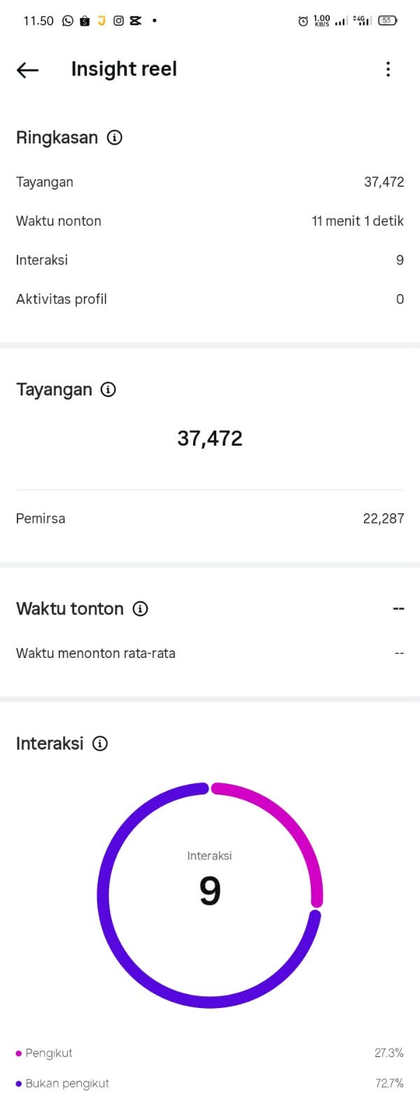
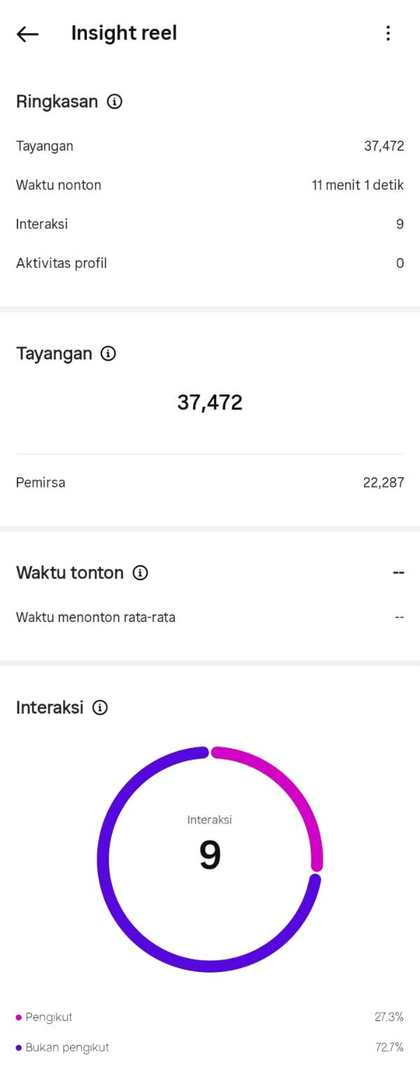
Potong status bar screenshot Insight IG dan tambah keterangan metrik
Claude-Session: https://claude.ai/code/session_01XFxGtJgego4dz8GkBeFxP5

diff --git a/index.html b/index.html
@@ -205,15 +205,23 @@
           <div class="reveal"><dt>Total reach (akun yang dijangkau)</dt><dd>71.771</dd></div>
           <div class="reveal"><dt>Total biaya iklan</dt><dd>Rp 99.919</dd></div>
         </dl>
-        <div class="figures">
-          <figure class="shot reveal">
-            <img src="assets/meta-ads-report.jpg" alt="Meta Ads Manager: performa kampanye, total reach 71.771 dengan biaya Rp99.919" width="1341" height="346" loading="lazy">
-            <figcaption>Meta Ads Manager — Campaign Performance</figcaption>
-          </figure>
+        <figure class="shot reveal">
+          <img src="assets/meta-ads-report.jpg" alt="Meta Ads Manager: performa kampanye, total reach 71.771 dengan biaya Rp99.919" width="1341" height="346" loading="lazy">
+          <figcaption>Meta Ads Manager — Campaign Performance</figcaption>
+        </figure>
+        <div class="insight">
           <figure class="shot tall reveal">
-            <img src="assets/instagram-insights.png" alt="Instagram Insights: performa reels" width="420" height="1120" loading="lazy">
+            <img src="assets/instagram-insights.png" alt="Instagram Insights: performa reels" width="420" height="1084" loading="lazy">
             <figcaption>Instagram Insights — Reels Performance</figcaption>
           </figure>
+          <div class="metrics reveal">
+            <p class="label">Metrik</p>
+            <dl>
+              <div><dt>Hasil Tayangan Reels</dt><dd>37.472</dd></div>
+              <div><dt>Pemirsa</dt><dd>22.287</dd></div>
+              <div><dt>Interaksi</dt><dd>9</dd></div>
+            </dl>
+          </div>
         </div>
         <p class="reveal"><a class="link" href="https://drive.google.com/drive/folders/1rFhIf1uQNMpGtsUMiMmEChXzilDNQje_" target="_blank" rel="noopener">Lihat laporan kampanye ↗</a></p>
       </div>

diff --git a/style.css b/style.css
@@ -329,3 +329,15 @@ ul { list-style: none; margin: 0; padding: 0; }
 .skill-list { columns: 2; column-gap: 3rem; }
 .skill-list li { break-inside: avoid; }
 @media (max-width: 480px) { .skill-list { columns: 1; } }
+
+/* Insight Instagram + metrik di sampingnya */
+.insight { display: grid; grid-template-columns: minmax(0, 300px) 1fr; gap: 28px; align-items: start; margin: 1.5rem 0; }
+.insight .shot { margin: 0; }
+.metrics { background: var(--white); border: 1px solid #d3d6db; border-radius: 22px; padding: 24px; }
+.metrics .label { text-align: left; margin: 0 0 12px; }
+.metrics dl { margin: 0; }
+.metrics dl div { padding: 14px 0; border-top: 1px solid var(--gray); }
+.metrics dl div:first-child { border-top: 0; }
+.metrics dt { color: var(--muted); font-size: .95rem; }
+.metrics dd { margin: .1rem 0 0; font-family: var(--font-title); font-size: clamp(2rem, 4.5vw, 2.8rem); font-weight: 600; line-height: 1.1; }
+@media (max-width: 720px) { .insight { grid-template-columns: 1fr; } .insight .shot.tall { max-width: 300px; } }
